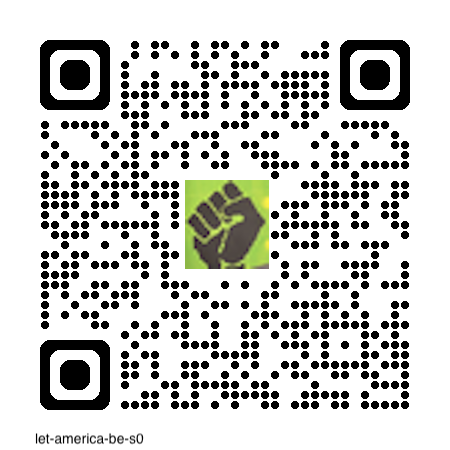
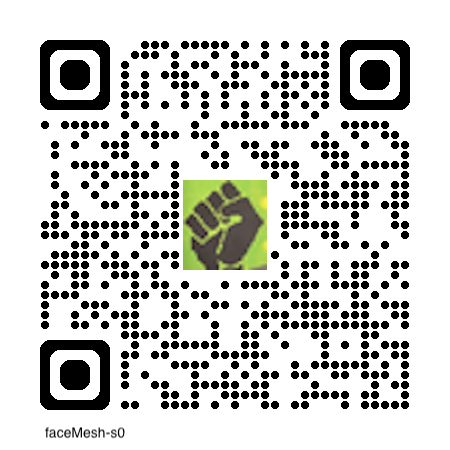
10

diff --git a/src/faceMesh/index.html b/src/faceMesh/index.html
@@ -4,7 +4,7 @@
     <meta charset="UTF-8" />
     <meta http-equiv="X-UA-Compatible" content="IE=edge" />
     <meta name="viewport" content="width=device-width, initial-scale=1.0" />
-    <title>faceMesh ?v=9</title>
+    <title>faceMesh ?v=10</title>
     <script src="https://cdnjs.cloudflare.com/ajax/libs/p5.js/1.10.0/p5.min.js"></script>
     <script src="https://unpkg.com/ml5@1/dist/ml5.min.js"></script>
 
@@ -14,25 +14,25 @@
   <body>
     <main id="id_main"></main>
 
-  <!-- <script type="module" src="https://molab-itp.github.io/moRelease/lib/3/a_lib.js?v=9"></script> -->
-  <script type="module" src="../../moLib/src/lib/a_lib.js"></script>
+  <script type="module" src="https://molab-itp.github.io/moRelease/lib/4/a_lib.js?v=10"></script>
+  <!-- <script type="module" src="../../moLib/src/lib/a_lib.js"></script> -->
 
-    <script src="a_sketch.js?v=9"></script>
-    <script src="a_my_setup.js?v=9"></script>
-    <script src="lib/bars.js?v=9"></script>
-    <script src="lib/bestill.js?v=9"></script>
-    <script src="lib/draw.js?v=9"></script>
-    <script src="lib/image.js?v=9"></script>
+    <script src="a_sketch.js?v=10"></script>
+    <script src="a_my_setup.js?v=10"></script>
+    <script src="lib/bars.js?v=10"></script>
+    <script src="lib/bestill.js?v=10"></script>
+    <script src="lib/draw.js?v=10"></script>
+    <script src="lib/image.js?v=10"></script>
     <script src="lib/mediaDevices.js"></script>
-    <script src="lib/photo.js?v=9"></script>
-    <script src="lib/ui_init.js?v=9"></script>
-    <script src="lib/video_init.js?v=9"></script>
-    <script src="mesh/EYES_MESH.js?v=9"></script>
-    <script src="mesh/FACE_MESH_PAIRS.js?v=9"></script>
-    <script src="mesh/LIPS_MESH.js?v=9"></script>
-    <script src="mesh/mesh_nits.js?v=9"></script>
-    <script src="mesh/faceMesh.js?v=9"></script>
-    <script src="mesh/faceMesh_render.js?v=9"></script>
-    <!-- ?v=9 included to force into the cache -->
+    <script src="lib/photo.js?v=10"></script>
+    <script src="lib/ui_init.js?v=10"></script>
+    <script src="lib/video_init.js?v=10"></script>
+    <script src="mesh/EYES_MESH.js?v=10"></script>
+    <script src="mesh/FACE_MESH_PAIRS.js?v=10"></script>
+    <script src="mesh/LIPS_MESH.js?v=10"></script>
+    <script src="mesh/mesh_nits.js?v=10"></script>
+    <script src="mesh/faceMesh.js?v=10"></script>
+    <script src="mesh/faceMesh_render.js?v=10"></script>
+    <!-- ?v=10 included to force into the cache -->
   </body>
 </html>

diff --git a/src/faceMesh/qrcode/index.html b/src/faceMesh/qrcode/index.html
@@ -3,11 +3,11 @@
   <head>
     <meta charset="UTF-8" />
     <meta name="viewport" content="width=device-width, initial-scale=1.0" />
-    <title>facemesh ?v=9</title>
+    <title>facemesh ?v=10</title>
   </head>
   <body>
     <div>
-      <h1 id="id_title">Welcome to facemesh ?v=9</h1>
+      <h1 id="id_title">Welcome to facemesh ?v=10</h1>
       By entering this site you agree to have your image stored <br />
       <h2>
         <a href="../index.html?" id="id_link">
@@ -21,7 +21,7 @@
     </div>
 
     <script>
-      let my_version = '?v=9';
+      let my_version = '?v=10';
       let str = window.location.search;
       if (str) {
         str = '&' + str.substring(1);
@@ -34,9 +34,9 @@
       // window.location = id_link.href;
       // window.location = '../index.html';
 
-      // https://molab-itp.github.io/moSalon/src/let-america-be/qrcode/?group=s0
-      // https://molab-itp.github.io/moSalon/src/let-america-be/qrcode/?group=s1
-      // https://molab-itp.github.io/moSalon/src/let-america-be/qrcode/?group=s2
+      // https://molab-itp.github.io/moSalon/src/faceMesh/qrcode/?group=s0
+      // https://molab-itp.github.io/moSalon/src/faceMesh/qrcode/?group=s1
+      // https://molab-itp.github.io/moSalon/src/faceMesh/qrcode/?group=s2
       //
     </script>
   </body>

diff --git a/src/photo-booth/index.html b/src/photo-booth/index.html
@@ -7,7 +7,7 @@
     <!-- <script src="https://cdnjs.cloudflare.com/ajax/libs/p5.js/1.9.0/addons/p5.sound.min.js"></script> -->
 
     <link rel="stylesheet" type="text/css" href="https://molab-itp.github.io/p5moRelease/lib/66/style.css"></script>
-    <!-- <link rel="stylesheet" type="text/css" href="../../../p5moLibrary/src/lib/style.css?v=9" /> -->
+    <!-- <link rel="stylesheet" type="text/css" href="../../../p5moLibrary/src/lib/style.css?v=10" /> -->
 
     <style></style>
   </head>
@@ -17,10 +17,10 @@
     <script type="module" src="https://molab-itp.github.io/p5moRelease/lib/83/a_lib.js"></script>
     <!-- <script type="module" src="../../p5moLibrary/src/lib/a_lib.js"></script> -->
 
-    <script src="a_my_init.js?v=9"></script>
-    <script src="ui_init.js?v=9"></script>
-    <script src="photo.js?v=9"></script>
-    <script src="a_sketch.js?v=9"></script>
-    <!-- ?v=9 included to force into the cache -->
+    <script src="a_my_init.js?v=10"></script>
+    <script src="ui_init.js?v=10"></script>
+    <script src="photo.js?v=10"></script>
+    <script src="a_sketch.js?v=10"></script>
+    <!-- ?v=10 included to force into the cache -->
   </body>
 </html>

diff --git a/src/let-america-be/index.html b/src/let-america-be/index.html
@@ -2,7 +2,7 @@
 <html lang="en">
   <head>
     <meta name="viewport" content="width=device-width, initial-scale=1.0" />
-    <title>Let American ?v=9</title>
+    <title>Let American ?v=10</title>
 
     <style>
       /* body, */
@@ -50,16 +50,16 @@
       <span id="id_lineNum"></span>
     </p>
     <!-- <div id="id_footer" class="fixed-footer">
-      ?v=9 powered by
+      ?v=10 powered by
       <a href="https://github.com/molab-itp/p5moLib" target="moLib"> moLib</a>
       created by
       <a href="https://jht1493.net" target="jht"> JHT </a>
     </div> -->
   </body>
 
-  <!-- <script type="module" src="https://molab-itp.github.io/moRelease/lib/3/dbase/a_dbase.js?v=9"></script> -->
+  <!-- <script type="module" src="https://molab-itp.github.io/moRelease/lib/3/dbase/a_dbase.js?v=10"></script> -->
   <script type="module" src="../../moLib/src/lib/dbase/a_dbase.js"></script>
 
-  <script src="my_setup.js?v=9"></script>
-  <script src="index.js?v=9"></script>
+  <script src="my_setup.js?v=10"></script>
+  <script src="index.js?v=10"></script>
 </html>

diff --git a/src/let-america-be/qrcode/index.html b/src/let-america-be/qrcode/index.html
@@ -7,7 +7,7 @@
   </head>
   <body>
     <div>
-      <h1 id="id_title">Welcome to let-american-be ?v=9</h1>
+      <h1 id="id_title">Welcome to let-american-be ?v=10</h1>
       By entering this site you agree to have anonymous user data stored <br />
       <h2>
         <a href="../index.html?" id="id_link">
@@ -22,7 +22,7 @@
     </div>
 
     <script>
-      let my_version = '?v=9';
+      let my_version = '?v=10';
       let str = window.location.search;
       if (str) {
         str = '&' + str.substring(1);

diff --git a/src/faceMesh/a_my_setup.js b/src/faceMesh/a_my_setup.js
@@ -1,7 +1,7 @@
 //
 function my_init() {
   // updated to verify change on mobile
-  my.version = '?v=9';
+  my.version = '?v=10';
   my.appTitle = 'Facemesh';
   my.isRemote = 1;
   // show detailed log

diff --git a/src/photo-booth/a_my_init.js b/src/photo-booth/a_my_init.js
@@ -1,7 +1,7 @@
 //
 function my_init() {
   // updated to verify change on mobile
-  my.version = '?v=9';
+  my.version = '?v=10';
   my.isRemote = 1;
   my.videoFlag = 1;
   // show detailed log

diff --git a/README.md b/README.md
@@ -1,16 +1,16 @@
-# [github moSalon](https://github.com/molab-itp/moSalon) ?v=9
+# [github moSalon](https://github.com/molab-itp/moSalon) ?v=10
 
 - multi-device experiences on handheld and large screens
 - creating and updating firebase cloud data
 
-## [github.io versions of examples](https://molab-itp.github.io/moSalon?v=9)
+## [github.io versions of examples](https://molab-itp.github.io/moSalon?v=10)
 
-- [src/let-america-be s0](src/let-america-be?v=9&group=s0)
-- [src/let-america-be s1](src/let-america-be?v=9&group=s1)
-- [src/let-america-be s2](src/let-america-be?v=9&group=s2)
+- [src/let-america-be s0](src/let-america-be?v=10&group=s0)
+- [src/let-america-be s1](src/let-america-be?v=10&group=s1)
+- [src/let-america-be s2](src/let-america-be?v=10&group=s2)
 
-- [src/faceMesh](src/faceMesh?v=9)
-- [src/faceMesh long](src/faceMesh?v=9&long=1)
+- [src/faceMesh](src/faceMesh?v=10)
+- [src/faceMesh long](src/faceMesh?v=10&long=1)
 
 ## How is data synchronized in real time in the examples?
 
